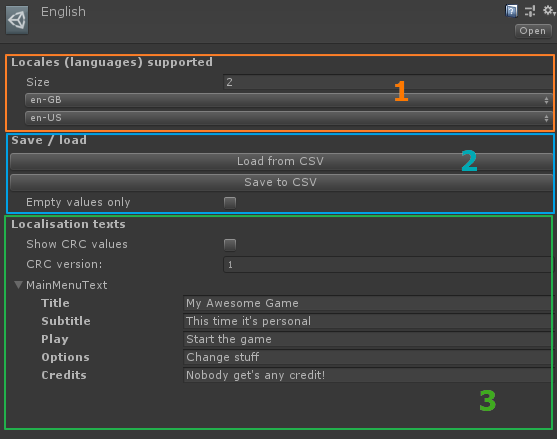
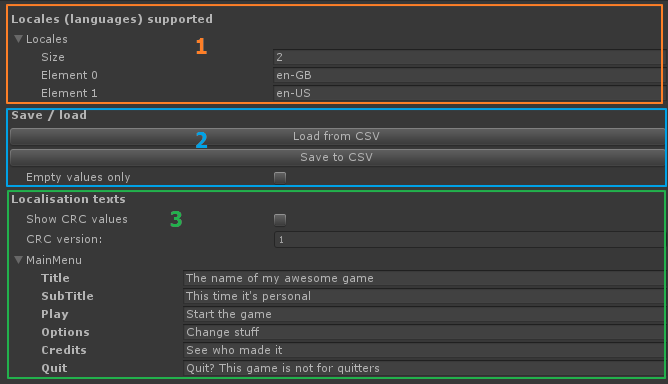
Updated readme & images

diff --git a/Docs/GettingStarted.md b/Docs/GettingStarted.md
@@ -17,32 +17,31 @@ Open the Localisation Window via the toolbar. `DUCK -> Localisation`
 
 **Step 2**
 
-In the localisation window click "Create new empty key schema". 
+In the localisation window click "Create new LocalisationSettgings". 
 
-![Create new schema](./create-new-schema.png)
+![Create new settings](./create-new-settings.png)
 
-This creates a new `LocalisationKeySchema.asset` config file in the currently selected directory. Place this anywhere you like or rename it. **You will only need one of these for your project.**
+This creates a new `LocalisationSettings.asset` config file in root of the project. Move this a suitable location and rename it if you like. **You will only need one of these for your project.**
 
-Think of this schema as a master localisation dictionary for your project. 
-The schema stores all the categories and localisation keys that you will use in your project. Each piece of localised content should have a key in here and belong to a category.
+The settings object is a configuration file for localisation in your project.
+* It defines a code generation file path (for generating an enum with all localisation keys).
+* It defines the path to the folder that will contain your localisation tables.
+* It defines a schema. The schema stores all the categories and localisation keys that you will use in your project. Each piece of localised content should have a key in here and belong to a category.
 
 **Step 3**
 
-Select the newly created LocalisationKeySchema, Add some categories via the inspector. A category is a set of related localisation keys. They are related by the type content (eg DialogueTexts, ButtonTexts, ErrorMessages etc..) but also by the type of media (eg Text, Audio, Image).
+Select the newly created `LocalisationSettings` object, Add some categories via the inspector. A category is a set of related localisation keys. They are related by the type content or area of the game (eg DialogueTexts, ButtonTexts, ErrorMessages, CharacterNames etc..).
 Some Example Categories are shown below:
 * MainMenu
 * OptionsMenu
 * DialogueText
-* DialogueAudio
 * CharacterNames
-* CharacterNamesAudio
 * ItemsNames
 * LevelNames
-* LevelThumbnails
-    
+
 Create a new category
 
-![Create new schema](./create-category.png)
+![Create category](./create-category.png)
 
 Expand the category
 
@@ -57,20 +56,16 @@ Example of populated category "MainMenuText"
 ![Example category](./example-category.png)
 
 ## Generate code
-Once the schema is populated with meaningful categories keys. It's time to generate a little bit of code. The system generates a class containing all categories/keys as enums, whose values are encoded as crc values for faster access. Through this class your code can refer to any localisation key, in a type safe manner. It also allows the localised components to show a dropdown UI to select the keys.
+Once the schema is populated with meaningful categories keys. It's time to generate a little bit of code. The system generates a class containing all categories/keys as enums, whose values are encoded as crc values for faster access. Through this class your code can refer to any localisation key, in a type safe manner.
 
 Any time you change the schema you will need to regenerate this file.
 
-To generate the file open the Localisation window again and drag the KeySchemaAsset into the slot.
+To generate the file, in the Localisation window under "Generate localisation consts", you can click "Generate Consts" (1).
+You can also specify your own template (2), although one is provided. 
 
-![Assign key schema](./assign-key-schema.png)
+It will be created in the file path defined in the settings.
 
-Once this field has been assigned the window will look like this:
-
-![Generate Config Class](./generate-config-class.png)
-
-To generate the config class first you need to assign a template. This is just a text asset. One is provided with this package "LocalisationConfigTemplate" but you may want to use your own to conform with your own coding style. Assign a emplate and then click the button "Generate Config Class" (marked "2" in the image above)
-This will generate the config file and save it to the location specified in the [preferences](./Preferences.md).
+![Generate Consts](./generate-consts.png)
 
 ## Populate Data
 Now we need to populate some localisation tables, so our keys actually have some values against them.
@@ -85,7 +80,7 @@ To create a new table click "Create new"
 
 ![Create new table](./create-new-table.png)
 
-This creates a table in the location specified in [preferences](./Preferences.md).
+This creates a table in the location specified in the settings location.
 
 This table asset represents the entire set of translation data for a set of locales. Name it "English" (for example).
 
@@ -93,9 +88,9 @@ Select the table and then in the inspector there are a few options. Shown below:
 
 ![Table config](./table-config.png).
 
-1) Configure which locales are supported by this table. In many cases this is only a single locale, however it allows multiple so a single set of translations can be used to support multiple regions. In our example the "English" table supports `en-US` & `en-GB`. It could also support any number of english speaking countries, however there isn't anything stopping us from splitting it and having unique tables for American & UK English.
+1) Configure which locales are supported by this table. In many cases this is only a single locale, however it allows multiple so a single set of translations can be used to support multiple regions. In our example the "English" table supports `en-US` & `en-GB`. It could also support any number of english speaking countries, however there isn't anything stopping us from splitting it and having unique tables for American & UK English. Each value in here should be a valid [Culture name](https://docs.microsoft.com/en-us/dotnet/api/system.globalization.cultureinfo.name?view=netframework-4.8#property-value).
 
-2) Save & Load options allow us to import data and export data from CSVs. There is also an option "Empty values only" which allows us to generate a CSV showing the keys that are missing. For more info about Import/Export see [Importing & Exporting](./Docs/ImportingAndExporting.md).
+2) Save & Load options allow us to import data and export data from CSVs. There is also an option "Empty values only" which allows us to generate a CSV showing the keys that are missing.
 
 3) Allows us to view & edit the values stored agains the keys, grouped by categories. The options above also allow us to toggle viewing CRC values for each key, and shows us the CRC version used.
 

diff --git a/Docs/BasicUsage.md b/Docs/BasicUsage.md
@@ -14,17 +14,20 @@ They work in conjunction with `Text`, `Image` and `AudioSource` respectively.
 
 To configure it add the base component (`Text`, `Image` or `AudioSource`), then add the localised component counterpart
 
-Set the category and the key. and press the set button. (The UI is the same for all 3)
+Set the category and the key.
 
-The actual content of each type is still a string. The audio & image components treat this localised string as a path and attempt to load a sprite or audio source for the corresponding value.
+The audio/image components treat the the localised string as a resource path and it will attempt to load the correct components.
 
 ![LocalisedText](./localised-text.png)
 
+Format paramters can also be specified in the same way as `string.format()`. If the localised value contains variables embedded in the strings. 
+
+Example `Pickup the {0}sword{1}`. In this case the format parameters for 0 and 1 could be rich text tags to make sword show up in bold and in another colour.
+
 ## Retrieving a localised string in code
-`Localiser.GetLocalisedString(Loc.MainMenu.MainMenuTitle);`
+`Localiser.GetLocalisedString(Keys.MainMenu.MainMenuTitle);`
 
 ## Change language at runtime
-
 `Localiser.SwitchLocale("fr"); // switch to French`
 
 This will automatically update any localisation-sensitive components.
@@ -33,12 +36,11 @@ This will automatically update any localisation-sensitive components.
 In some situations you may want to set the text, sprite, or audio on a different component other than `Text`, `Image` or `AudioSource`.
 
 For example you may want to set the text on a `TextMeshPro` object. To accomplish this just extend `AbstractLocalisedObject` and make the relevant changes.
-#endif
+
 eg:
 
 ```c#
 [RequireComponent(typeof(TextMeshProUGUI))]
-[ResourceType(LocalisedResourceType.Text)]
 public class LocalisedText : AbstractLocalisedObject<TextMeshProUGUI>
 {
     // Called whenever locale changes (and when the component awakes)
@@ -50,8 +52,6 @@ public class LocalisedText : AbstractLocalisedObject<TextMeshProUGUI>
 ```
 
 Above we specified the type parameter `TextMeshProUGUI` when inheriting `AbstractLocalisedObject<>`.
-This specifies the type of component that this lcoaliser component will accompany and is used to obtain a reference to it which is accessible through the `Component` property.
-
-You must also specify the resource type using the attribute class `[ResourceType(LocalisedResourceType.Text)]`. This tell us which categories to display when drawing the inspector GUI.
+This specifies the type of component that this localiser component will accompany and is used to obtain a reference to it which is accessible through the `Component` property.
 
 Note: we cannot provide this as part of the package without introducing a dependency on the TextMeshPro assembly, otherwise we would ship this library with this component.

diff --git a/README.md b/README.md
@@ -6,12 +6,11 @@ A library containing classes for adding localisation support to your application
 ## Requirements
 * Unity 2017 or higher
 * .NET 4.X or higher
+* C# 6.0 or higher
 
 ## Features
-* Supports localisation for different media types (Text, Audio, Images).
 * Type safe localisation key/value retrieval.
-* Split translations into categories for easier organisation.
-* Validation to auto detect missing values for different locales.
+* Split translations into categories for easier organisation (via code generation)
 * Easy to use out of the box components: `LocalisedText`, `LocalisedAudio`, `LocalisedImage`
 * Simple API to retrieve localised values by code: `Loc.Get(Category.Key.KeyName);`
 
